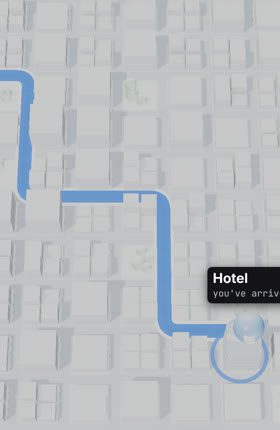
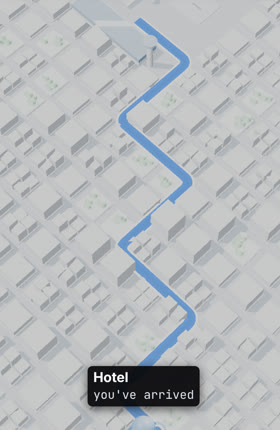
route3 v2: calm pull-back camera on /route-map (Jan)

diff --git a/hf/videos/route3/scenes.js b/hf/videos/route3/scenes.js
@@ -106,11 +106,10 @@ function pinMesh(color,num){ const g=new THREE.Group(); const m=new THREE.MeshSt
   SCN[0]=function(lt0){ const lt=lt0*1.35; const u=easeIO(cl((lt-0.05)/2.3)); line.geometry.setDrawRange(0,Math.floor(u*TUB)*6); casing.geometry.setDrawRange(0,Math.floor(u*TUB)*6);
     const h=path.getPointAt(Math.max(0.0001,u)), b=path.getPointAt(Math.max(0,u-0.07)), a=path.getPointAt(Math.min(1,u+0.05));
     puck.position.set(h.x,0.2,h.z); halo.scale.setScalar(1+0.35*((lt*1.6)%1)); halo.material.opacity=0.5*(1-((lt*1.6)%1));
-    const dir=h.clone().sub(b); dir.y=0; if(dir.lengthSq()<1e-4) dir.set(1,0,0); dir.normalize();
-    const follow=new THREE.Vector3(h.x-dir.x*9,27,h.z-dir.z*9+4), flook=new THREE.Vector3(h.x,0,h.z);
-    const ov=easeIO(cl((lt-2.0)/1.0)); const over=new THREE.Vector3(6,78,40), olook=new THREE.Vector3(6,0,9);
-    const tp=follow.lerp(over,ov), tl2=flook.lerp(olook,ov);
-    camP.copy(tp); camL.copy(tl2);
+    const z=easeIO(cl((lt-0.0)/2.7));
+    const l0=new THREE.Vector3(-19,0,-15), l1=new THREE.Vector3(-2,0,2.5);
+    const p0=l0.clone().add(new THREE.Vector3(13,40,13)), p1=l1.clone().add(new THREE.Vector3(33,104,33));
+    camP.lerpVectors(p0,p1,z); camL.lerpVectors(l0,l1,z);
     cam.position.copy(camP); cam.lookAt(camL);
     const pd=cl((lt-2.35)/0.45); pin.visible=lt>2.35; pin.position.set(hotelC[0],4.4+(1-easeOut2(pd))*9,hotelC[1]); pin.scale.setScalar(3.4*(0.6+0.4*backOut(pd)));
     hring.material.opacity=0.85*cl((lt-2.6)/0.3); hring.scale.setScalar(1+0.15*Math.sin(lt*6));

diff --git a/hf/videos/route3/build.py b/hf/videos/route3/build.py
@@ -47,7 +47,7 @@ DEMOS = [  # Type idx, (cmd i0,i1), (prompt i0,i1), 'and' idx, cmd, prompt, titl
     (12, (14, 15), (16, 18), 19, "holo-scan", "a hydro dam", "hydro dam hologram", "Water spins the turbines.", 3, "Hologram scan of anything"),
     (23, (25, 26), (27, 31), 32, "iso-flow", "from home to the shop", "home-to-shop flow", "Every stop, step by step.", 1, "Isometric step-by-step flow"),
 ]
-SER = json.loads((HERE.parent.parent.parent / "data" / "series.json").read_text())["app_demo"]["next"]
+SER = 6  # released as "Type it, get it #6" (series.json was bumped after release)
 CMD = "route-map"
 TY = []
 for k, (a, (ci0, ci1), (pi0, pi1), andi, cmd, prompt, title, cap, hi, desc) in enumerate(DEMOS):
